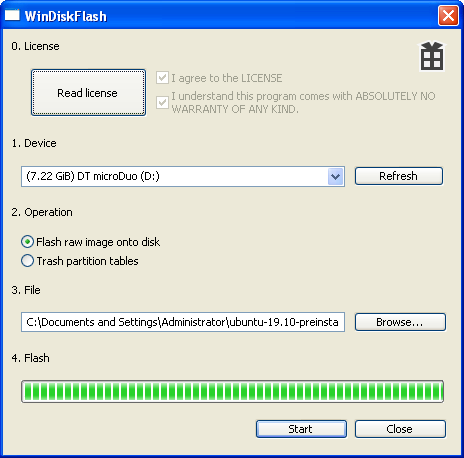
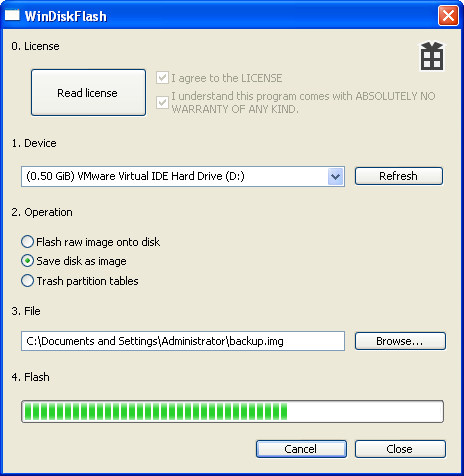
add image saving support

Changed region(s): [[0.0302, 0.0, 0.9957, 0.7642], [0.0302, 0.7642, 0.9655, 0.9782], [0.0, 0.0306, 0.3319, 0.1528]]

diff --git a/WinDiskFlash/main_dialog.cpp b/WinDiskFlash/main_dialog.cpp
@@ -83,7 +83,7 @@ static BOOL SetDlgItemTextFromResourceString(HWND dlg, int id, UINT str)
   return false;
 }
 
-static void SaveDialog(HWND hWnd, HWND hEdit)
+static void OpenSaveDialog(HWND hWnd, HWND hEdit, bool save)
 {
   // we have to make a huge buffer since GetOpenFileName will fail with throwing away the path if buffer too small
   wchar_t name[MAXWORD / 2];
@@ -93,7 +93,7 @@ static void SaveDialog(HWND hWnd, HWND hEdit)
   of.lpstrFile = name;
   of.nMaxFile = (DWORD)std::size(name);
   of.Flags = OFN_EXPLORER | OFN_OVERWRITEPROMPT;
-  if (!GetOpenFileName(&of))
+  if (!(save ? GetSaveFileName(&of) : GetOpenFileName(&of)))
   {
     const auto error = CommDlgExtendedError();
     // if error is 0 the user just cancelled the action
@@ -178,6 +178,8 @@ void MainDialog::StartOperation()
   Operation op;
   if (Button_GetCheck(GetCtl(IDC_OPERATION_RAW)))
     op = Operation::Flash;
+  else if (Button_GetCheck(GetCtl(IDC_OPERATION_SAVE)))
+    op = Operation::Save;
   else if (Button_GetCheck(GetCtl(IDC_OPERATION_TRASH)))
     op = Operation::Trash;
   else
@@ -210,22 +212,33 @@ void MainDialog::StartOperation()
   }
 
   auto file_handle = INVALID_HANDLE_VALUE;
-  if(op == Operation::Flash)
+  if(op == Operation::Flash || op == Operation::Save)
   {
     const auto file_path = GetWindowTextStr(GetCtl(IDC_FILE));
 
     if (file_path.empty())
       return;
 
-    file_handle = CreateFile(
-      file_path.c_str(),
-      FILE_GENERIC_READ,
-      0,
-      nullptr,
-      OPEN_EXISTING,
-      0,
-      nullptr
-    );
+    if(op == Operation::Save)
+      file_handle = CreateFile(
+        file_path.c_str(),
+        FILE_GENERIC_WRITE,
+        0,
+        nullptr,
+        CREATE_ALWAYS,
+        0,
+        nullptr
+      );
+    else
+      file_handle = CreateFile(
+        file_path.c_str(),
+        FILE_GENERIC_READ,
+        0,
+        nullptr,
+        OPEN_EXISTING,
+        0,
+        nullptr
+      );
 
     if(file_handle == INVALID_HANDLE_VALUE)
     {
@@ -247,7 +260,7 @@ void MainDialog::StartOperation()
   {
     const auto volume_handle = CreateFile(
         volume_path.c_str(),
-        GENERIC_WRITE,
+        op == Operation::Save ? GENERIC_READ : GENERIC_WRITE,
         FILE_SHARE_READ | FILE_SHARE_WRITE,
         nullptr,
         OPEN_EXISTING,
@@ -309,7 +322,7 @@ void MainDialog::StartOperation()
       {
         const auto disk_handle = CreateFile(
           disk->stable_path.c_str(),
-          GENERIC_WRITE,
+          op == Operation::Save ? GENERIC_READ : GENERIC_WRITE,
           FILE_SHARE_READ | FILE_SHARE_WRITE,
           nullptr,
           OPEN_EXISTING,
@@ -330,7 +343,7 @@ void MainDialog::StartOperation()
         {
           auto can_continue = true;
 
-          if(file_handle != INVALID_HANDLE_VALUE)
+          if(file_handle != INVALID_HANDLE_VALUE && op != Operation::Save)
           {
             auto write_size = file::GetSize(file_handle);
             if (write_size > disk->size_in_bytes)
@@ -434,6 +447,7 @@ void MainDialog::LocalizeStrings()
   LOCALIZE(WARRANTY_CHECK);
   LOCALIZE(REFRESH);
   LOCALIZE(OPERATION_RAW);
+  LOCALIZE(OPERATION_SAVE);
   LOCALIZE(OPERATION_TRASH);
   LOCALIZE(BROWSE);
 
@@ -478,9 +492,10 @@ INT_PTR MainDialog::DlgProc(UINT uMsg, WPARAM wParam, LPARAM lParam)
         UpdateDisks();
         return TRUE;
       case IDC_BROWSE:
-        SaveDialog(_handle, GetCtl(IDC_FILE));
+        OpenSaveDialog(_handle, GetCtl(IDC_FILE), Button_GetCheck(GetCtl(IDC_OPERATION_SAVE)));
         return TRUE;
       case IDC_OPERATION_RAW:
+      case IDC_OPERATION_SAVE:
         Button_Enable(GetCtl(IDC_BROWSE), TRUE);
         Edit_Enable(GetCtl(IDC_FILE), TRUE);
         return TRUE;

diff --git a/WinDiskFlash/worker_thread.cpp b/WinDiskFlash/worker_thread.cpp
@@ -42,6 +42,9 @@ void WorkerThread::Thread()
   case Operation::Flash:
     status = DoFlash();
     break;
+  case Operation::Save:
+    status = DoSave();
+    break;
   // should never happen since operation is sanitized by main dialog
   // regardless, we need to make the compiler shut up
   default:
@@ -126,6 +129,30 @@ DWORD WorkerThread::DoFlash(uint64_t off)
       return GetLastError();
     if(SECTOR_SIZE != file::WriteAtOffset(disk, off + size_aligned, buf.get(), SECTOR_SIZE))
       return GetLastError();
+  }
+  return ERROR_SUCCESS;
+}
+
+DWORD WorkerThread::DoSave()
+{
+  constexpr auto step = 16 << 20; // 16 MB at a time
+  static_assert(step > SECTOR_SIZE);
+  static_assert(step % SECTOR_SIZE == 0);
+  // make it page aligned
+  using storage = std::aligned_storage_t<step, 0x1000>;
+  const auto buf = std::make_unique<storage>();
+
+  const auto size = disk_size_in_bytes;
+
+  for (uint64_t i = 0; i < size; i += step)
+  {
+    auto curr_size = size - i;
+    if (curr_size > step)
+      curr_size = step;
+    if (curr_size != file::Copy(file, i, disk, i, buf.get(), (size_t)curr_size))
+      return GetLastError();
+    if (NotifyProgress(double(i + curr_size) / double(size)))
+      return ERROR_CANCELLED;
   }
   return ERROR_SUCCESS;
 }

diff --git a/WinDiskFlash/resource.h b/WinDiskFlash/resource.h
@@ -30,6 +30,7 @@
 #define IDS_DLG_OPERATION_TRASH         122
 #define IDS_DLG_BROWSE                  123
 #define IDS_CLOSE                       124
+#define IDS_DLG_OPERATION_SAVE          125
 #define IDD_LICENSE_DIALOG              129
 #define RESTYPE_BLOB                    256
 #define IDC_LICENSE_BTN                 1000
@@ -42,6 +43,7 @@
 #define IDC_OPERATION_TRASH             1008
 #define IDC_FILE                        1009
 #define IDC_BROWSE                      1010
+#define IDC_OPERATION_SAVE              1011
 #define IDC_PROGRESS                    1012
 #define IDC_STARTSTOP                   1013
 #define IDC_0_LICENSE                   1015

diff --git a/WinDiskFlash/worker_thread.hpp b/WinDiskFlash/worker_thread.hpp
@@ -32,6 +32,7 @@ private:
 
   DWORD DoTrash();
   DWORD DoFlash(uint64_t off = 0);
+  DWORD DoSave();
 
   LRESULT MagicMessage(UINT uMsg, LPARAM lParam);
 

diff --git a/WinDiskFlash/main_dialog.hpp b/WinDiskFlash/main_dialog.hpp
@@ -19,6 +19,7 @@
 enum class Operation
 {
   Flash,
+  Save,
   Trash
 };
 

diff --git a/README.md b/README.md
@@ -2,18 +2,18 @@
 
 ## About
 
-WinDiskFlash is a tool for easily flashing raw disk images (aka `dd` images) onto storage devices under Windows.
+WinDiskFlash is a tool for easily flashing or creating raw disk images (aka `dd` images) under Windows.
 
 ## Features
 
 * Easy usage
+* Read disks into images or flash images to disks.
 * Safety - ensures correct target device - unlike other tools
 * Boot sector / partition table eraser
 * Works on Windows XP+ out of the box
 
 ## Todo
 
-* Option to backup disk to image
 * Make an icon
 
 ## Download
